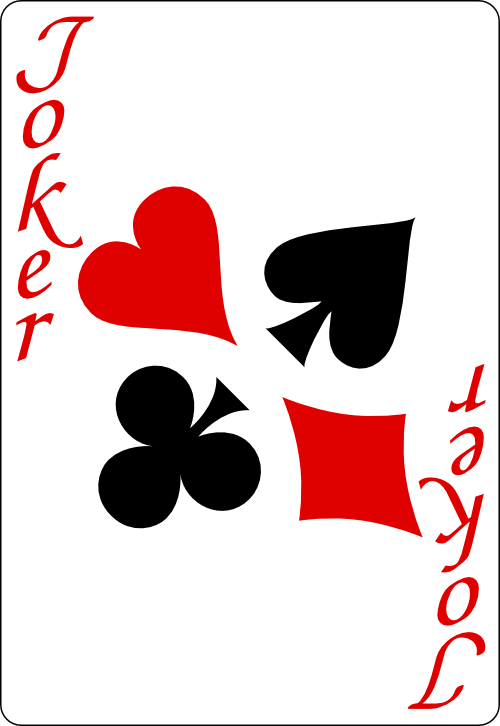
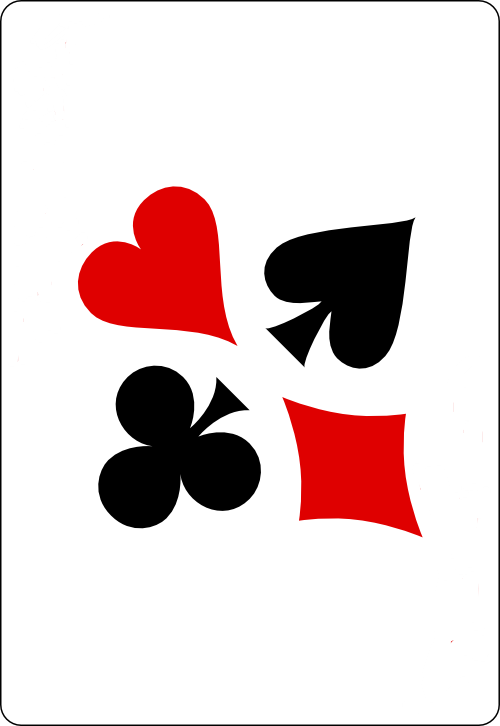
Game mostly works now

Changed region(s): [[0.81, 0.4848, 0.99, 1.0], [0.03, 0.0, 0.18, 0.5152]]

diff --git a/SieweksCardGameVisual/wwwroot/css/site.css b/SieweksCardGameVisual/wwwroot/css/site.css
@@ -72,3 +72,9 @@ body {
 .font{
     font-family: MS Gothic;
 }
+.background {
+    background-image: url("pokertable.png");
+    background-repeat: no-repeat;
+    background-attachment: fixed;
+    background-position: center;
+}

diff --git a/SieweksCardGameVisual/Pages/BlackJack.cshtml.cs b/SieweksCardGameVisual/Pages/BlackJack.cshtml.cs
@@ -19,6 +19,33 @@ namespace SieweksCardGameVisual.Pages
         public List<Cards> hand1;
         public Player player2;
         public List<Cards> hand2;
+        string opfirstcard;
+        Random rnd = new Random();
+        public void serializeMyShit()
+        {
+            HttpContext.Session.SetString("Hand1Address",
+            JsonConvert.SerializeObject(hand1));
+            HttpContext.Session.SetString("Player1Address",
+            JsonConvert.SerializeObject(player1));
+            HttpContext.Session.SetString("Hand2Address",
+            JsonConvert.SerializeObject(hand2));
+            HttpContext.Session.SetString("Player2Address",
+            JsonConvert.SerializeObject(player2));
+            HttpContext.Session.SetString("deckAddress",
+            JsonConvert.SerializeObject(deck));
+            HttpContext.Session.SetString("opponentshiddencard",
+             JsonConvert.SerializeObject(opfirstcard));
+        }
+
+        public void Player2AI()
+        {
+            if(player2.value <=17)
+            {
+                deck.getnextcard();
+                player2.hit();
+                hand2.Add(player2.GetCard());
+            }
+        }
         public void OnGet()
         {
             var SessionAddress = HttpContext.Session.GetString("Hand1Address");
@@ -26,36 +53,60 @@ namespace SieweksCardGameVisual.Pages
             var SessionAddress2 = HttpContext.Session.GetString("Hand2Address");
             var PlayerAddress2 = HttpContext.Session.GetString("Player2Address");
             var DeckAddress = HttpContext.Session.GetString("deckAddress");
+            var opcardAddress = HttpContext.Session.GetString("opponentshiddencard");
 
             deck = JsonConvert.DeserializeObject<Deck>(DeckAddress);
             hand1 = JsonConvert.DeserializeObject<List<Cards>>(SessionAddress);
             player1 = JsonConvert.DeserializeObject<Player>(PlayerAddress);              
             hand2 = JsonConvert.DeserializeObject<List<Cards>>(SessionAddress2);
             player2 = JsonConvert.DeserializeObject<Player>(PlayerAddress2);
-
+            opfirstcard = JsonConvert.DeserializeObject<string>(opcardAddress);
+      
         }
-        public IActionResult OnPost()
+        public IActionResult OnPost(string action)
         {
             OnGet();
-            deck.getnextcard();
-            player1.hit();
-            hand1.Add(player1.GetCard());
-            if(player1.value > 21)
+            if (action == "hit")
             {
-                return RedirectToPage("Index");
+              
+                deck.getnextcard();
+                player1.hit();
+                hand1.Add(player1.GetCard());
+                if (player1.value > 21)
+                {
+                    if (ModelState.IsValid)
+                    {
+                        serializeMyShit();
+                    }
+                    return RedirectToPage("Result");
+                }
+                Player2AI();
+                if(player2.value>21)
+                {
+                    if (ModelState.IsValid)
+                    {
+                        serializeMyShit();
+                    }
+                    return RedirectToPage("Result");
+                }
+            }
+            if(action == "fold")
+            {
+                while(player2.value <= 17)
+                {
+                    deck.getnextcard();
+                    player2.hit();
+                    hand2.Add(player2.GetCard());
+                }
+                    if (ModelState.IsValid)
+                    {
+                        serializeMyShit();
+                    }
+                    return RedirectToPage("Result");
             }
             if (ModelState.IsValid)
             {
-                HttpContext.Session.SetString("Hand1Address",
-                JsonConvert.SerializeObject(hand1));
-                HttpContext.Session.SetString("Player1Address",
-                JsonConvert.SerializeObject(player1));
-                HttpContext.Session.SetString("Hand2Address",
-                JsonConvert.SerializeObject(hand2));
-                HttpContext.Session.SetString("Player2Address",
-                JsonConvert.SerializeObject(player2));
-                HttpContext.Session.SetString("deckAddress",
-                JsonConvert.SerializeObject(deck));
+                serializeMyShit();
             }
             return Page();
         }

diff --git a/SieweksCardGameVisual/Pages/Result.cshtml.cs b/SieweksCardGameVisual/Pages/Result.cshtml.cs
@@ -1,0 +1,50 @@
+using System;
+using System.Collections.Generic;
+using System.Linq;
+using System.Threading.Tasks;
+using Microsoft.AspNetCore.Http;
+using Microsoft.AspNetCore.Mvc;
+using Microsoft.AspNetCore.Mvc.RazorPages;
+using Newtonsoft.Json;
+using SieweksCardGameVisual.Classes;
+
+namespace SieweksCardGameVisual.Pages
+{
+    public class ResultModel : PageModel
+    {
+        Deck deck;
+        public Player player1;
+        public List<Cards> hand1;
+        public Player player2;
+        public List<Cards> hand2;
+        public string Message;
+        string opfirstcard;
+        public void OnGet()
+        {
+            var SessionAddress = HttpContext.Session.GetString("Hand1Address");
+            var PlayerAddress = HttpContext.Session.GetString("Player1Address");
+            var SessionAddress2 = HttpContext.Session.GetString("Hand2Address");
+            var PlayerAddress2 = HttpContext.Session.GetString("Player2Address");
+            var DeckAddress = HttpContext.Session.GetString("deckAddress");
+            var opcardAddress = HttpContext.Session.GetString("opponentshiddencard");
+
+            deck = JsonConvert.DeserializeObject<Deck>(DeckAddress);
+            hand1 = JsonConvert.DeserializeObject<List<Cards>>(SessionAddress);
+            player1 = JsonConvert.DeserializeObject<Player>(PlayerAddress);
+            hand2 = JsonConvert.DeserializeObject<List<Cards>>(SessionAddress2);
+            player2 = JsonConvert.DeserializeObject<Player>(PlayerAddress2);
+            opfirstcard = JsonConvert.DeserializeObject<string>(opcardAddress);
+
+            hand2.ElementAt(0).imagepath = opfirstcard;
+            if (player1.value > player2.value && player1.value <= 21 || player2.value > 21)
+            {
+                Message = "You Win";
+            }
+            else if (player1.value < player2.value && player2.value <= 21 || player1.value > 21)
+            {
+                Message = "You Lose";
+            }
+            else Message = "It's a Tie";
+        }
+    }
+}

diff --git a/SieweksCardGameVisual/Pages/Index.cshtml.cs b/SieweksCardGameVisual/Pages/Index.cshtml.cs
@@ -24,6 +24,7 @@ namespace SieweksCardGameVisual.Pages
         Player player2;
         List<Cards> hand2;
         Deck deck = new Deck();
+        string opfirstcard;
         public void OnGet()
         {
             HttpContext.Session.Clear();
@@ -46,6 +47,8 @@ namespace SieweksCardGameVisual.Pages
             deck.getnextcard();
             player2.hit();
             hand2.Add(player2.GetCard());
+            opfirstcard = hand2.ElementAt(0).imagepath;
+            hand2.ElementAt(0).imagepath = "/images/red_joker.png";
             if (ModelState.IsValid)
             {
                 HttpContext.Session.SetString("Hand1Address",
@@ -58,6 +61,8 @@ namespace SieweksCardGameVisual.Pages
                 JsonConvert.SerializeObject(player2));
                 HttpContext.Session.SetString("deckAddress",
                 JsonConvert.SerializeObject(deck));
+                HttpContext.Session.SetString("opponentshiddencard",
+                JsonConvert.SerializeObject(opfirstcard));
             }
             return RedirectToPage("BlackJack");
         }
